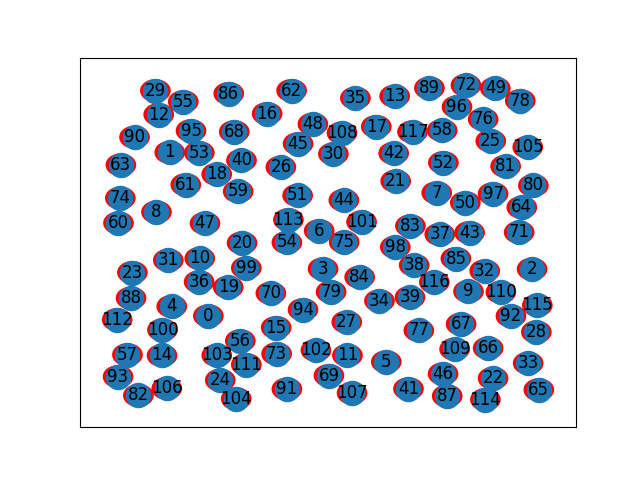
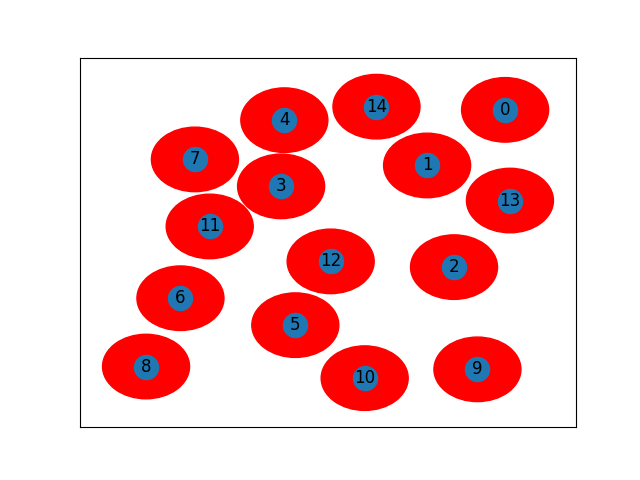
update

diff --git a/list1/example.py b/list1/example.py
@@ -1,0 +1,29 @@
+import networkx as nx
+import matplotlib.pyplot as plt
+
+G = nx.Graph()
+
+for letter in ['A', 'B', 'C', 'D']:
+    G.add_node(letter)
+
+connections = [
+    ('A', 'C'),
+    ('C', 'B'),
+    ('B', 'A'),
+    ('A', 'D'),
+    ('D', 'E'),
+    ('E', 'A'),
+]
+
+G.add_edges_from(connections)
+
+nodes_position = {
+    'A': [2, 2],
+    'B': [3, 3],
+    'C': [3, 1],
+    'D': [1, 1],
+    'E': [1, 3],
+}
+
+nx.draw(G,nodes_position, with_labels=True)
+plt.savefig('plot_task4.png')

diff --git a/list1/task5.py b/list1/task5.py
@@ -30,8 +30,8 @@ class GraphCreator:
 
     @classmethod
     def generate_random_point(cls) -> list:
-        position_x = uniform.LCG.uniform_range(1, 30)
-        position_y = uniform.LCG.uniform_range(1, 30)
+        position_x = uniform.LCG.uniform_range(1, 10)
+        position_y = uniform.LCG.uniform_range(1, 10)
         # print(f'({position_x}, {position_y})')
         return [position_x, position_y]
     
